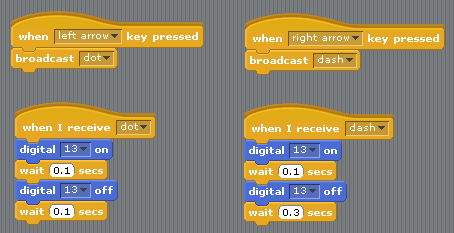
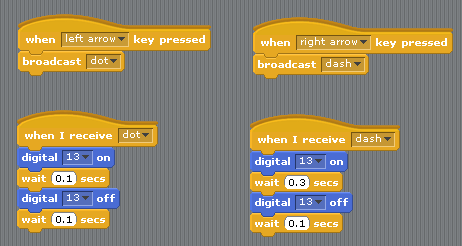
finished morse code for week 3

diff --git a/_posts/2015-05-14-week-3-morse.md b/_posts/2015-05-14-week-3-morse.md
@@ -1,0 +1,155 @@
+---
+layout: post
+title: Week 3 - Let's send morse!!!!
+---
+
+<br>
+So, last week we wrote some programs to send messages in morse code by blinking an LED. 
+
+Unfortunately our little light sniffing companion didn't work as well as we'd hoped. We didn't have time to test him with enough different programs and he missed a lot of what looked to us like perfectly good morse code so firstly, apologies for that. 
+
+As we all found out, this task can quickly get very tricky. Sending just one short word can take a super long time! 
+
+This week we are going to look at ways we can make our lives a whole bunch easier. By using certain patterns and arranging our blocks in clever ways, we can save ourselves a ton of time *and* make our programs a lot easier to understand at the same time. 
+
+
+First of all, let's look at how most of you guys approached this problem. Here is a program which sends the word Nic 
+
+<br>
+![Morse 2](../img/morse_2.png "Morse 2")
+![Morse Sender Nic](../img/MorseSender_Nic_NoSpaces.png "Morse Sender Nic")
+<br>
+This is a 100% correct program and does exactly what it's supposed to, but I think you'll agree it's pretty confusing. What would be great is if we could organise our program in the same way we think about it. Instead of a series of on/wait/off signals, we want to think in dots and dashes. Let's separate out our program so that we can see these a bit more clearly.
+
+<br>
+![Morse 2](../img/morse_2.png "Morse 2")
+![Morse Sender Nic Spaced](../img/MorseSender_Nic_Spaced.png "Morse Sender Nic Spaced")
+
+<br>
+When we separate everything out like this, we can see that a lot of the chunks of our program are actually exactly the same. We are putting in an awful lot of work to make our programs, and doing the same thing over and over. We need to take advantage of the fact that computers are incredibly good at doing boring things over and over again super fast. 
+
+![What if I told you](../img/whatifitoldyou_14lessblocks.jpg "What if I told you")
+
+
+## Broadcasts
+
+<br>
+The DRY principle in software engineering stands for Don't Repeat Yourself. This is always a good thing to keep in mind. Having a DRY program is much better than having a WET program (Write Everything Twice) because it saves us a ton of time in the long run, and also makes our programs a lot easier to understand.
+
+
+In Scratch, we can use something called broadcasting to do this. What we want to do is only make the code to send a dot once, and only make the code to send a dash once. We put this code under a "when I receive" control block. Drag one onto the stage and click the triangle to make a new broadcast message.
+
+![Broadcast Block](../img/broadcast_01.PNG "Broadcast Block")
+
+We will name our first message "dot" and make another one called "dash"
+
+![New Broadcast Message](../img/broadcast_02_dot.PNG "New Broadcast Message")
+
+The dot block needs to :
+
+- Turn the LED on
+- Wait 0.1 seconds
+- Turn the LED off
+- Wait 0.1 seconds (to leave a gap before the next dot/dash)
+
+<br>
+The dash block needs to :
+
+- Turn the LED on
+- Wait 0.3 seconds
+- Turn the LED off
+- Wait 0.1 seconds (to leave a gap before the next dot/dash)
+
+<br>
+We can then trigger these blocks by using a broadcast block somewhere else in our program. Here is an example that lets us type our morse code in manually using the left and right arrow keys.
+
+![Keyboard Control](../img/broadcast_07_KeyboardControl.PNG "Keyboard Control")
+
+If we want to have a script send a whole series of dots and dashes, in stead of "broadcast", we will have to use "broadcast and wait." This is so that the script waits until we have finished sending the first dot/dash before it starts sending the second. If we just had lots of "broadcast" blocks, our program would try to send all of the dots and dashes at once. Here is an example which sends the word "Nic."
+ 
+![Morse Nic](../img/morse_2.png "Morse Nic")
+
+![Broadcast Nic](../img/broadcast_05_Nic.PNG "Broadcast Nic")
+
+This is definitely a bit easier to understand than before, but when we start sending longer words it can still get a bit fiddly. Here is what sending the word "Hello" looks like 
+
+![Morse Hello](../img/morse_Hello.PNG "Morse Hello")
+
+![Broadcast Hello](../img/broadcast_06_Hello.PNG "Broadcast Hello")
+
+Notice how we are still repeating ourselves every time we want to write the same letter.
+
+
+![Deeper](../img/deeper.jpg "Deeper") 
+
+What would be great is if every time we want to write an L, we didn't have to go and look up the morse code for the letter L. We can use exactly the same technique to make a broadcast message for the letter L, and have a script that automatically sends broadcast messages for dot dash dot dot. Here is an example that uses this technique to send the word Hello every time we press the space bar.
+
+![Finished Hello](../img/broadcast_08_HelloFancy.PNG "Finished Hello")
+
+<br>
+
+## Variables
+
+<br>
+Notice that all of the "wait" blocks have numbers that we are typing in based on our dot being 0.1 seconds long. What if we wanted to change our dotTime? We would have to go through all of the letters, and change our wait time, and in our dot and dash scripts, we would have to change those numbers too. We can use variables to get around this, and make a program that is even more clever and adjustable. In the orange "variables" tab in the top left, click on "Make a new variable"
+
+![make variable](../img/var_createVar.png "make variable")
+
+In the window that pops up, we want to call our variable by a name that makes sense for what we are using it for. We called ours "dotTime"
+
+![make dotTime](../img/var_dotTime.png "make dotTime")
+
+Now that we have created our variable, there are some new blocks available in the "variables" section.
+
+![variable blocks](../img/var_options.png "variable blocks")
+
+We want to drag the block that says "set dotTime to 0" on to our scripting area, change the number to 0.1 and double click it to run it.
+
+![set dotTime](../img/var_dotTime_Set.png "set dotTime")
+
+Once we have done this, in the top left of your stage you should see your variable with it's new value.
+
+![done dotTime](../img/var_dotTime_Done.png "done dotTime")
+
+Because in morse code, all of the timings depend on how long a single dot is, we can use our dotTime variable everywhere we want to set a time to wait. If we want to change our timings, all we should have to do is change the dotTime variable, and everywhere in our scripts that we are using it should automatically use the new value. Here is what our scripts look like when we use variables. Can you see how all of our timings fit the rules? The numbers might not be what you expected, but think about what order these scripts get run in.
+
+![morse rules](../img/morseRules.png "morse rules")
+
+![dotTime](../img/broadcast_09_dotTime.PNG "dotTime")
+
+![L dotTime](../img/var_sendL.PNG "L dotTime")
+
+![space dotTime](../img/var_sendSpace.PNG "space dotTime")
+ 
+
+Writing these scripts for every single letter in the alphabet is going to take a long time at first, but in the long run, will actually save us a ton of time when we want to send different messages. Luckily, we are not so mean that we are going to make all of you do this, and we have made a program that uses all of these techniques to send every letter of the alphabet which you can download by clicking on this guy :
+
+
+<a href="../scratch/morseEncoder_Broadcasts.sb">
+<img border="0" alt="Download Morse Program" src="../img/mind-blown-stars.gif" width="400">
+</a>
+
+
+<!--
+![Keanu's Mind Blown](../img/keanue-reeves-mind-blown.jpg "Keanu's Mind Blown")
+
+
+![Jon's Mind Blown](../img/jon-stewart-mind-blown.gif "Jon's Mind Blown")
+
+
+## Controlling Servos
+
+![Servo 1](../img/servo1.png "Servo 1")
+
+![Servo 2](../img/servo2.png "Servo 2")
+
+![Servo 3](../img/servo3.png "Servo 3")
+
+![Servo 4](../img/servo4.png "Servo 4")
+
+![Servo 5](../img/servo5.png "Servo 5")
+
+![Servo 6](../img/servo6.png "Servo 6")
+
+![Servo 7](../img/servo7.png "Servo 7")
+-->
